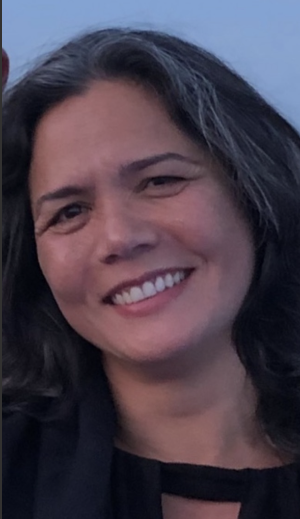
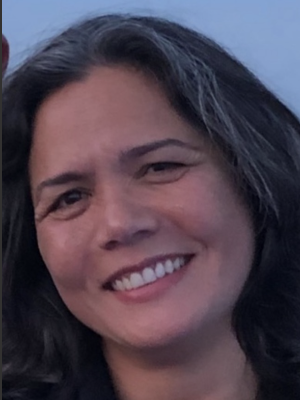
added nancy's portrait and temp bio

diff --git a/src/pages/Board.js b/src/pages/Board.js
@@ -11,6 +11,7 @@ import Grid from "@mui/material/Grid";
 
 import karen from "../assets/team/karen.jpg";
 import dale from "../assets/team/dale.jpg";
+import nancy from "../assets/team/nancy.jpg";
 import kathleen from "../assets/team/kathleen.png";
 import diana from "../assets/team/diana.jpeg";
 import morgan from "../assets/team/morgan.JPG";
@@ -394,6 +395,82 @@ const Board = () => {
             </Card>
           </Grid>
           {/* MORGAN RODDY END */}
+
+          {/* Nancy Halmer START */}
+          <Grid item sm={12}>
+            <Card
+              sx={{
+                maxWidth: 720,
+                maxheight: 300,
+                display: { xs: "none", sm: "none", md: "flex", lg: "flex" },
+              }}
+            >
+              <Box sx={{ display: "flex", flexDirection: "row" }}>
+                <CardContent>
+                  <Typography
+                    gutterBottom
+                    variant="h5"
+                    component="div"
+                    color="primary"
+                    align="left"
+                  >
+                    Nancy Halmer, DMSc, MPA, RDN, PA-C
+                  </Typography>
+
+                  <Typography
+                    variant="body2"
+                    color="text.secondary"
+                    align="left"
+                  >
+                    Dr. Hamler's bio is coming ...
+                  </Typography>
+                </CardContent>
+
+                <img
+                  component="img"
+                  height="300"
+                  src={nancy}
+                  alt="portrait shot of a blonde woman"
+                  align="right"
+                />
+              </Box>
+            </Card>
+            <Card
+              sx={{
+                maxWidth: 345,
+                maxheight: 400,
+                display: { xs: "flex", sm: "flex", md: "none", lg: "none" },
+              }}
+            >
+              <Box sx={{ display: "flex", flexDirection: "column" }}>
+                <CardMedia
+                  component="img"
+                  height="400"
+                  src={nancy}
+                  alt="portrait shot of a blonde woman"
+                />
+                <CardContent>
+                  <Typography
+                    gutterBottom
+                    variant="h5"
+                    component="div"
+                    color="primary"
+                  >
+                    Nancy Halmer, DMSc, MPA, RDN, PA-C
+                  </Typography>
+
+                  <Typography
+                    variant="body2"
+                    color="text.secondary"
+                    align="left"
+                  >
+                    Dr. Hamler's bio is coming ...
+                  </Typography>
+                </CardContent>
+              </Box>
+            </Card>
+          </Grid>
+          {/* Nancy Halmer END */}
 
           {/* DIANA PRINCE START */}
           <Grid item sm={12}>
